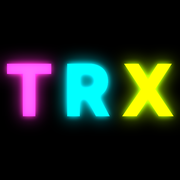
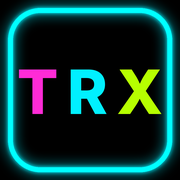
Add files via upload

diff --git a/index.html b/index.html
@@ -6,7 +6,7 @@
 <meta name="viewport" content="width=device-width, initial-scale=1, viewport-fit=cover">
 <meta name="apple-mobile-web-app-capable" content="yes">
 <link rel="apple-touch-icon" sizes="180x180" href="apple-touch-icon.png">
[2 lines of base64/hex data omitted]
 <meta name="theme-color" content="#000000">
 <meta name="apple-mobile-web-app-title" content="Lecteur TRX">
 <meta name="apple-mobile-web-app-status-bar-style" content="black-translucent">
@@ -101,6 +101,10 @@ input[type=range]::-moz-range-thumb{width:18px;height:18px;border:0;border-radiu
 #toast{position:fixed;left:50%;bottom:calc(100px + env(safe-area-inset-bottom,0px));transform:translateX(-50%) translateY(20px);opacity:0;pointer-events:none;background:#000;color:var(--g);border:1.5px solid var(--g);border-radius:999px;padding:10px 18px;font-size:14px;box-shadow:0 0 14px rgba(182,255,0,.55);transition:.25s;z-index:40;white-space:nowrap}
 #toast.show{opacity:1;transform:translateX(-50%)}
 #qBd{color:var(--m);font-weight:800}
+.count{display:flex;justify-content:space-between;align-items:center}
+.lnk{background:none;border:0;color:var(--m);font:inherit;font-size:11px;letter-spacing:1px;text-transform:uppercase;padding:4px 0}
+.br{flex:none;font-size:11px;font-weight:700;color:var(--g);text-shadow:0 0 6px var(--g);white-space:nowrap}
+#full .meta em{display:block;font-style:normal;margin-top:5px;font-size:12px;letter-spacing:1px;color:var(--g);text-shadow:0 0 6px var(--g)}
 </style>
 </head>
 <body>
@@ -134,9 +138,9 @@ input[type=range]::-moz-range-thumb{width:18px;height:18px;border:0;border-radiu
   </div>
 </header>
 <div class="chips" id="chips"></div>
-<div class="count" id="count"></div>
+<div class="count"><span id="count"></span><button class="lnk" id="clearAll">Vider la bibliothèque</button></div>
 <ul id="list"></ul>
-<div class="empty" id="empty"><div class="big">♪</div>Ajoute tes fichiers audio ou un dossier entier.<br>Rien n’est envoyé sur Internet : tout reste sur ton iPhone.</div>
+<div class="empty" id="empty"><div class="big">♪</div>Ajoute tes fichiers audio ou un dossier entier.<br>Ils sont enregistrés dans l’app : tu ne le fais qu’une fois.<br>Rien n’est envoyé sur Internet.</div>
 
 <div id="mini" style="display:none">
   <div class="cv noart" id="mCv"></div>
@@ -151,7 +155,7 @@ input[type=range]::-moz-range-thumb{width:18px;height:18px;border:0;border-radiu
   <div class="bg" id="fBg"></div>
   <div class="top"><button class="ib t" id="fClose"><svg><use href="#i-down"/></svg></button><span>En lecture</span><button class="ib t" id="fQ"><svg><use href="#i-list"/></svg><span class="bd" id="qBd"></span></button></div>
   <div class="art"><div class="cv noart" id="fCv"></div></div>
-  <div class="meta"><b id="fT">—</b><span id="fS"></span></div>
+  <div class="meta"><b id="fT">—</b><span id="fS"></span><em id="fB"></em></div>
   <input type="range" id="seek" min="0" max="1000" value="0">
   <div class="time"><span id="tc">0:00</span><span id="td">0:00</span></div>
   <div class="ctl">
@@ -164,7 +168,7 @@ input[type=range]::-moz-range-thumb{width:18px;height:18px;border:0;border-radiu
 </div>
 
 <div id="qp"><div class="qtop"><button class="ib t" id="qClose"><svg><use href="#i-down"/></svg></button><span>À suivre</span><button class="nb m" id="qClear">Vider</button></div><ul id="qList"></ul></div>
-<div id="sheet"><div class="box" id="shBox"><div class="st" id="shT"></div><button class="nb" id="shNext">Lire juste après</button><button class="nb m" id="shEnd">Ajouter à la file d’attente</button><button class="nb x" id="shCancel">Annuler</button></div></div>
+<div id="sheet"><div class="box" id="shBox"><div class="st" id="shT"></div><button class="nb" id="shNext">Lire juste après</button><button class="nb m" id="shEnd">Ajouter à la file d’attente</button><button class="nb x" id="shDel">Retirer de la bibliothèque</button><button class="nb x" id="shCancel">Annuler</button></div></div>
 <div id="toast"></div>
 <input type="file" id="fFiles" accept="audio/*,.mp3,.m4a,.aac,.wav,.flac,.ogg,.opus,.aiff" multiple hidden>
 <input type="file" id="fDir" webkitdirectory multiple hidden>
@@ -181,6 +185,7 @@ const setCv=(el,t)=>{
   else{el.style.backgroundImage='';el.classList.add('noart')}
 };
 const title=t=>t.title||t.name, sub=t=>t.artist||t.folder;
+const info=t=>[t.file.name.split('.').pop().toUpperCase(),t.kbps?t.kbps+' kbps':''].filter(Boolean).join(' · ');
 
 function addFiles(files){
   const keys=new Set(S.tracks.map(t=>t.key)), fresh=[];
@@ -189,26 +194,35 @@ function addFiles(files){
     const key=f.name+f.size+f.lastModified; if(keys.has(key))continue; keys.add(key);
     const parts=(f.webkitRelativePath||'').split('/');
     const t={key,file:f,name:f.name.replace(/\.[^.]+$/,''),folder:parts.length>1?parts[parts.length-2]:'Fichiers',mtime:f.lastModified,title:'',artist:'',art:''};
-    S.tracks.push(t);fresh.push(t);
+    S.tracks.push(t);fresh.push(t);save(t);
   }
-  render();readTags(fresh);
+  render();processQ(fresh);
 }
-async function readTags(list){
-  if(!window.jsmediatags)return;
-  let tick;
-  const bump=()=>{clearTimeout(tick);tick=setTimeout(()=>{render();if(S.cur)ui()},200)};
-  for(const t of list){
-    await new Promise(res=>{
-      try{jsmediatags.read(t.file,{
-        onSuccess:({tags})=>{
-          if(tags.title)t.title=tags.title;
-          if(tags.artist)t.artist=tags.artist;
-          const p=tags.picture;
-          if(p&&p.data){t.art=URL.createObjectURL(new Blob([new Uint8Array(p.data)],{type:p.format||'image/jpeg'}))}
-          bump();res()},
-        onError:res});}catch(e){res()}
-    });
+let busy=false;const pend=[];
+function probe(t){return new Promise(res=>{
+  const a=new Audio(),u=URL.createObjectURL(t.file);a.preload='metadata';
+  let to;const done=()=>{clearTimeout(to);a.onloadedmetadata=a.onerror=null;URL.revokeObjectURL(u);res()};
+  to=setTimeout(done,6000);
+  a.onloadedmetadata=()=>{if(isFinite(a.duration)&&a.duration>0)t.kbps=Math.round(t.file.size*8/a.duration/1000);done()};
+  a.onerror=done;a.src=u;
+})}
+async function processQ(list){
+  pend.push(...list);if(busy)return;busy=true;
+  let tick;const bump=()=>{clearTimeout(tick);tick=setTimeout(()=>{render();if(S.cur)ui()},250)};
+  while(pend.length){
+    const t=pend.shift();
+    if(!t.tagged&&window.jsmediatags){
+      await new Promise(res=>{try{jsmediatags.read(t.file,{onSuccess:({tags})=>{
+        if(tags.title)t.title=tags.title;if(tags.artist)t.artist=tags.artist;
+        const p=tags.picture;
+        if(p&&p.data){t.artBlob=new Blob([new Uint8Array(p.data)],{type:p.format||'image/jpeg'});t.art=URL.createObjectURL(t.artBlob)}
+        res()},onError:res})}catch(e){res()}});
+      t.tagged=true;
+    }
+    if(!t.kbps)await probe(t);
+    save(t);bump();
   }
+  busy=false;
 }
 function view(){
   const q=S.q;
@@ -224,7 +238,7 @@ function render(){
     b.textContent=f==='all'?'Tout':f;b.onclick=()=>{S.folder=f;render()};ch.appendChild(b);
   });
   const l=view();
-  $('#empty').style.display=S.tracks.length?'none':'block';
+  $('#empty').style.display=S.tracks.length?'none':'block';$('#clearAll').style.display=S.tracks.length?'':'none';
   $('#count').textContent=S.tracks.length?l.length+' piste'+(l.length>1?'s':''):'';
   const ul=$('#list');ul.innerHTML='';
   l.forEach(t=>{
@@ -233,6 +247,7 @@ function render(){
     setCv(li.querySelector('.cv'),t);
     li.querySelector('b').textContent=title(t);
     li.querySelector('span').textContent=sub(t)+' · '+new Date(t.mtime).toLocaleDateString('fr-FR');
+    if(t.kbps){const br=document.createElement('div');br.className='br';br.textContent=t.kbps+' kbps';li.appendChild(br)}
     const ab=document.createElement('button');ab.className='ib t add';ab.innerHTML='<svg><use href="#i-plus"/></svg>';ab.onclick=e=>{e.stopPropagation();openSheet(t)};li.appendChild(ab);
     li.onclick=()=>{S.hist=[];S.shuf=null;play(t)};
     ul.appendChild(li);
@@ -243,7 +258,7 @@ function ui(){
   $('#mini').style.display='flex';
   $('#mT').textContent=$('#fT').textContent=title(t);
   $('#mS').textContent=$('#fS').textContent=sub(t);
-  setCv($('#mCv'),t);setCv($('#fCv'),t);
+  setCv($('#mCv'),t);setCv($('#fCv'),t);$('#fB').textContent=info(t);
   $('#fBg').style.backgroundImage=t.art?'url("'+t.art+'")':'none';
   if('mediaSession'in navigator){
     const md={title:title(t),artist:sub(t)};if(t.art)md.artwork=[{src:t.art,sizes:'512x512'}];
@@ -351,6 +366,25 @@ if('mediaSession'in navigator){
   m.setActionHandler('play',()=>au.play());m.setActionHandler('pause',()=>au.pause());
   m.setActionHandler('nexttrack',()=>next(false));m.setActionHandler('previoustrack',prev);
 }
+let DB=null;
+const dbp=new Promise(res=>{try{const r=indexedDB.open('trx',1);r.onupgradeneeded=()=>r.result.createObjectStore('tracks',{keyPath:'key'});r.onsuccess=()=>{DB=r.result;res(DB)};r.onerror=r.onblocked=()=>res(null)}catch(e){res(null)}});
+async function tx(mode,fn){
+  const d=await dbp;if(!d)return null;
+  return new Promise(res=>{try{const t=d.transaction('tracks',mode),q=fn(t.objectStore('tracks'));t.oncomplete=()=>res(q&&q.result!==undefined?q.result:true);t.onerror=t.onabort=()=>res(null)}catch(e){res(null)}});
+}
+function save(t){return tx('readwrite',s=>s.put({key:t.key,file:t.file,name:t.name,folder:t.folder,mtime:t.mtime,title:t.title,artist:t.artist,artBlob:t.artBlob||null,kbps:t.kbps||0,tagged:!!t.tagged}))}
+$('#shDel').onclick=()=>{const t=shT;closeSheet();S.tracks=S.tracks.filter(x=>x!==t);S.queue=S.queue.filter(x=>x!==t);S.pn=Math.min(S.pn,S.queue.length);tx('readwrite',s=>s.delete(t.key));toast('Retiré de la bibliothèque');render();refQ()};
+$('#clearAll').onclick=()=>{if(!confirm('Supprimer toute la bibliothèque enregistrée dans l’app ?'))return;au.pause();S.tracks=[];S.queue=[];S.pn=0;S.cur=null;S.hist=[];tx('readwrite',s=>s.clear());$('#mini').style.display='none';$('#full').classList.remove('open');render();refQ()};
+au.onloadedmetadata=()=>{const t=S.cur;if(t&&!t.kbps&&au.duration>0){t.kbps=Math.round(t.file.size*8/au.duration/1000);save(t);ui();render()}};
+(async()=>{
+  try{navigator.storage&&navigator.storage.persist&&navigator.storage.persist()}catch(e){}
+  const rec=await tx('readonly',s=>s.getAll());
+  if(Array.isArray(rec)&&rec.length){
+    const keys=new Set(S.tracks.map(t=>t.key));
+    rec.forEach(r=>{if(!keys.has(r.key))S.tracks.push({...r,art:r.artBlob?URL.createObjectURL(r.artBlob):''})});
+    render();processQ(S.tracks.filter(t=>!t.tagged||!t.kbps));
+  }
+})();
 render();
 </script>
 </body>
